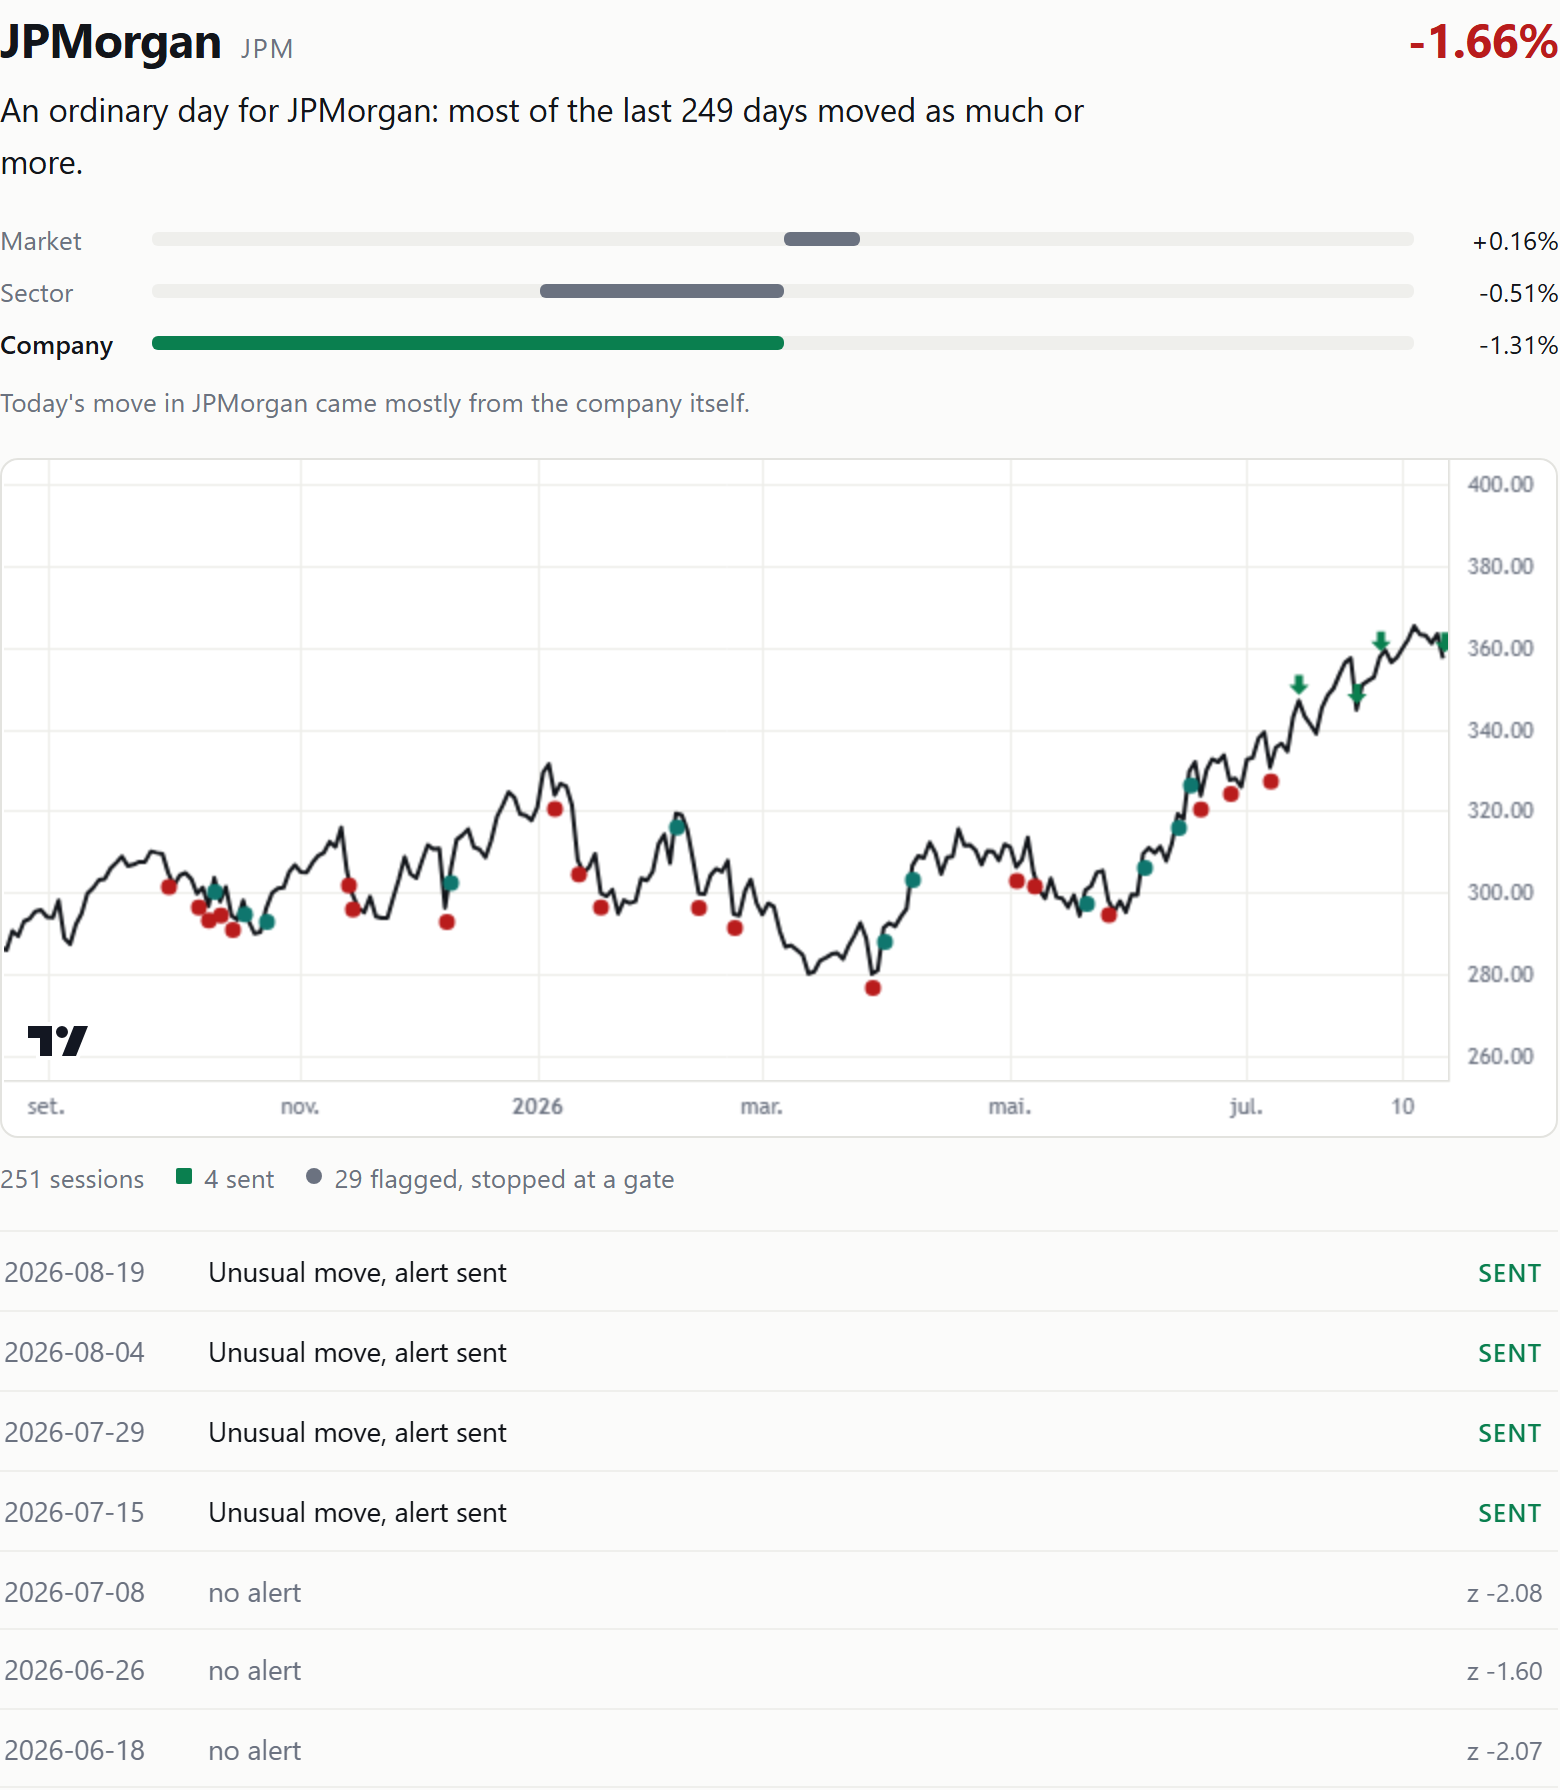
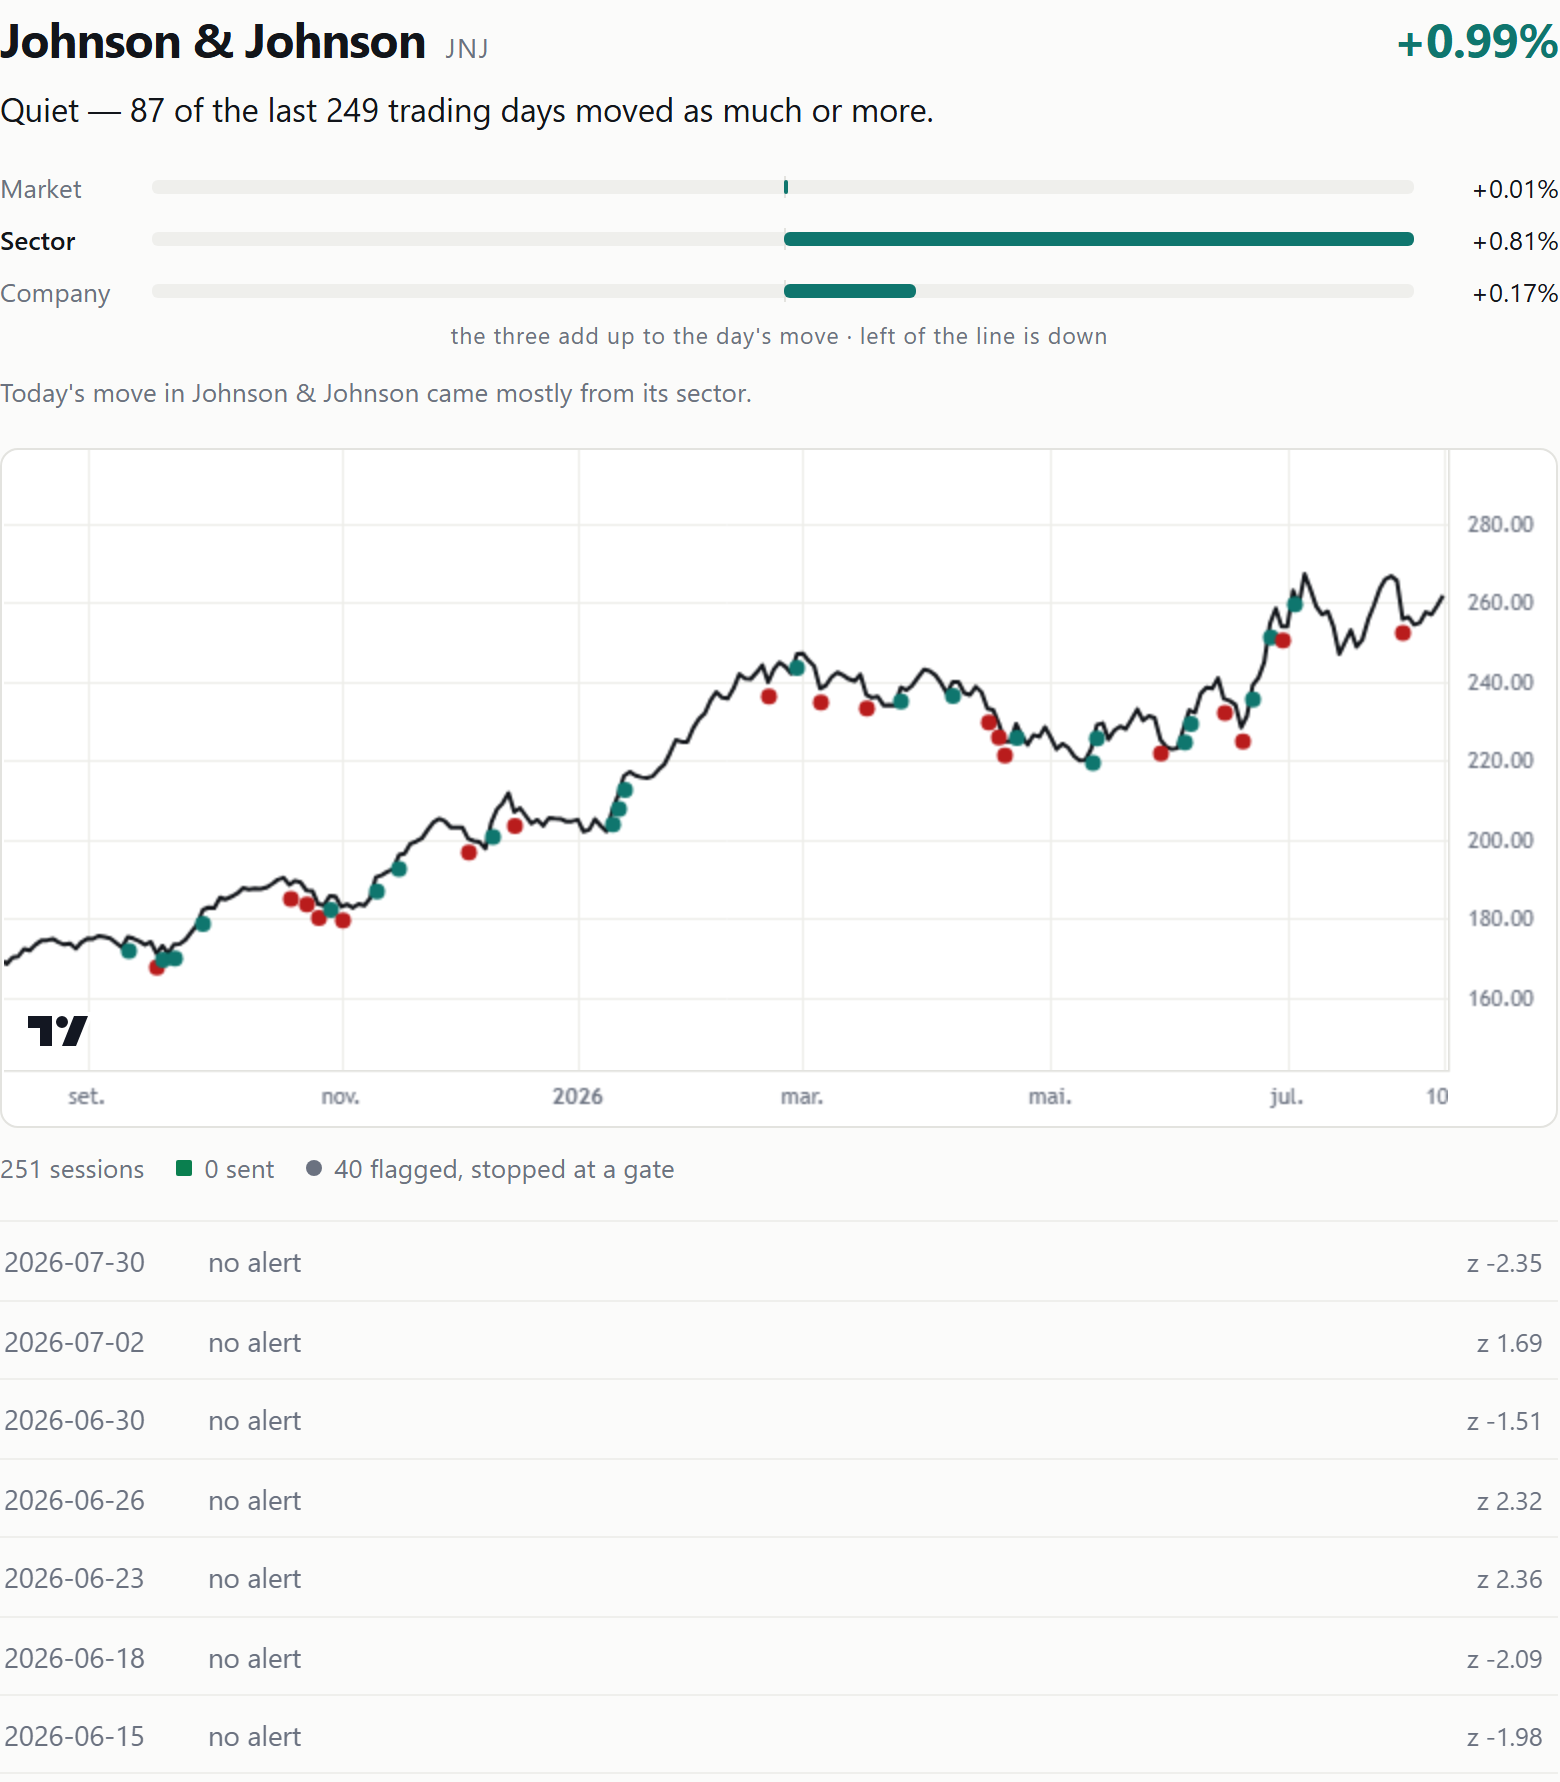
A cor das barras diz o sinal, e o eixo do zero passa a ver-se

diff --git a/web/index.html b/web/index.html
@@ -129,10 +129,19 @@
   .rep .l { display:grid; grid-template-columns:66px 1fr 62px; align-items:center; gap:10px;
             font-size:.82rem; }
   .rep .l span:first-child { color:var(--fraco); }
+  /* A cor diz o SINAL e nada mais. A primeira versão pintava de verde a parcela que era o
+     motor, e verde já quer dizer "subiu" no resto da página: uma parcela negativa a verde só
+     porque era a maior era uma contradição a olhar para o leitor. O motor distingue-se pelo
+     rótulo a negrito, e a barra pela direcção. */
   .rep .t { position:relative; height:7px; background:var(--linha2); border-radius:3px; }
-  .rep .t i { position:absolute; top:0; height:7px; border-radius:3px; background:var(--fraco); }
-  .rep .l.motor .t i { background:var(--acento); }
+  .rep .t::before { content:""; position:absolute; left:50%; top:-2px; width:1px; height:11px;
+                    background:var(--linha); }
+  .rep .t i { position:absolute; top:0; height:7px; border-radius:3px; background:var(--sobe);
+              min-width:2px; }
+  .rep .t i.neg { background:var(--desce); }
   .rep .l.motor span:first-child { color:var(--tinta); font-weight:600; }
+  .rep .eixo { color:var(--fraco); font-size:.72rem; text-align:center; margin:3px 0 0;
+               letter-spacing:.04em; }
   .rep .v { text-align:right; font-variant-numeric:tabular-nums; }
   .rep .nota { color:var(--fraco); font-size:.82rem; margin:8px 0 0; }
 
@@ -195,12 +204,23 @@
              border-left:1px solid var(--linha); padding-left:11px; }
 
   /* ── funil ─────────────────────────────────────────────────────────────── */
-  .funil { display:grid; grid-template-columns:repeat(auto-fill,minmax(255px,1fr)); gap:2px 26px; }
-  .etapa { padding:9px 0; border-top:1px solid var(--linha2); }
+  /* ⚠ Uma grelha de colunas deixava buracos enormes: as etapas têm alturas muito
+     diferentes (uma empresa numa, sete noutra) e o CSS grid não as encaixa, empurra-as para
+     a linha seguinte e deixa metade do ecrã vazio. Só se viu ao capturar a figura.
+     Uma lista de linhas é também a forma certa: um funil lê-se de cima para baixo, pela
+     ordem em que as decisões acontecem. */
+  .funil { display:block; }
+  .etapa { display:grid; grid-template-columns:minmax(150px,210px) 1fr; gap:6px 20px;
+           padding:10px 0; border-top:1px solid var(--linha2); align-items:baseline; }
   .etapa h3 { font-size:.88rem; margin:0; font-weight:600;
-              display:flex; align-items:baseline; gap:8px; }
+              display:flex; align-items:baseline; gap:7px; }
   .etapa h3 .n { color:var(--fraco); font-weight:400; font-size:.8rem; }
-  .etapa .porque { color:var(--fraco); font-size:.8rem; margin:1px 0 6px; }
+  .etapa .porque { grid-column:1; color:var(--fraco); font-size:.78rem; margin:0; }
+  .etapa .nomes { grid-column:2; grid-row:1 / span 2; }
+  @media (max-width:640px) {
+    .etapa { grid-template-columns:1fr; }
+    .etapa .porque, .etapa .nomes { grid-column:1; grid-row:auto; }
+  }
   .nomes { display:flex; flex-wrap:wrap; gap:5px; }
   .nome { border:1px solid var(--linha); border-radius:5px; padding:2px 7px; font-size:.79rem;
           background:var(--caixa); }
@@ -388,13 +408,15 @@ function repartir(d, nome) {
     const esquerda = (v || 0) < 0 ? 50 - w : 50;
     return `<div class="l ${d.driver === chave ? "motor" : ""}">
               <span>${rot}</span>
-              <span class="t"><i style="left:${esquerda}%;width:${w}%"></i></span>
+              <span class="t"><i class="${(v || 0) < 0 ? "neg" : ""}"
+                    style="left:${esquerda}%;width:${w}%"></i></span>
               <span class="v">${pct(v || 0)}</span>
             </div>`;
   }).join("");
   const motor = { market:"the market as a whole", sector:"its sector",
                   company:"the company itself" }[d.driver] || "";
   box.innerHTML = `<div class="barras">${linhas}</div>` +
+    `<p class="eixo">the three add up to the day's move · left of the line is down</p>` +
     (motor ? `<p class="nota">Today's move in ${esc(nome)} came mostly from ${motor}.</p>` : "");
 }
 
